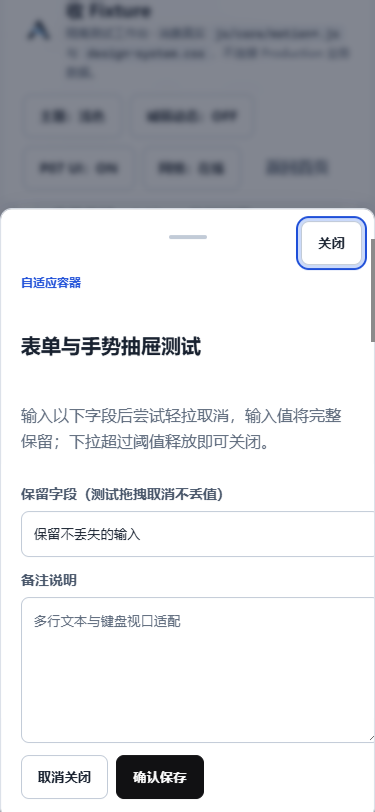
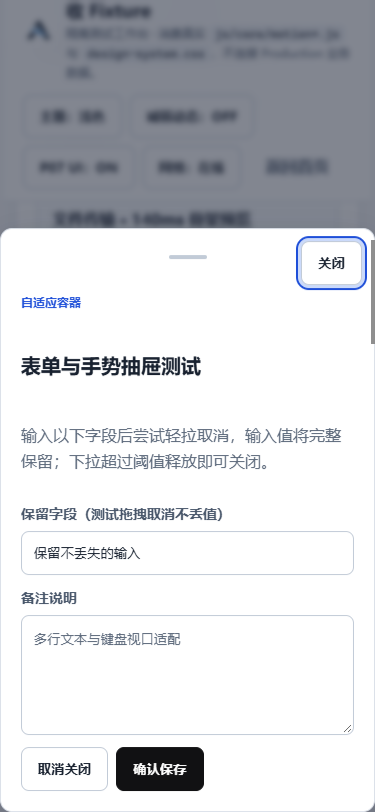
fix(qa-i07): add border-box sizing in fixture CSS and refresh evidence

diff --git a/qa/i07/fixture.css b/qa/i07/fixture.css
@@ -1,3 +1,9 @@
+*,
+*::before,
+*::after {
+  box-sizing: border-box;
+}
+
 body {
   margin: 0;
   font-family: var(--ds-font-sans);
